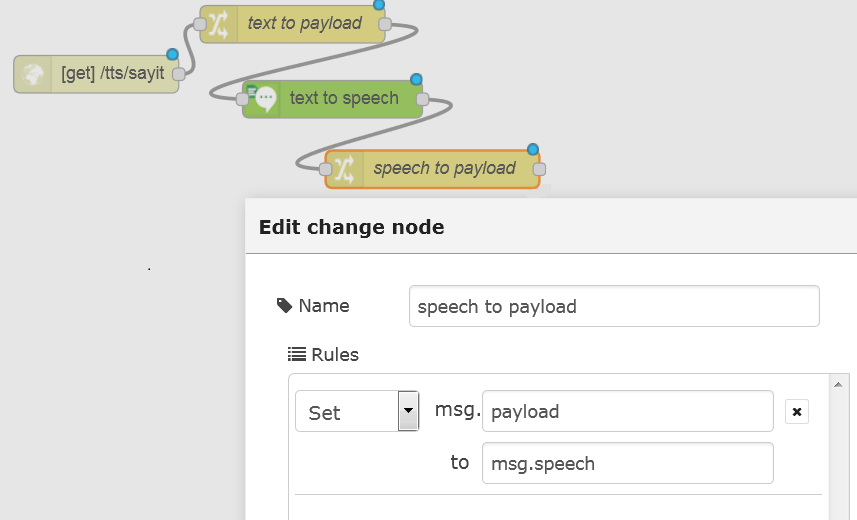
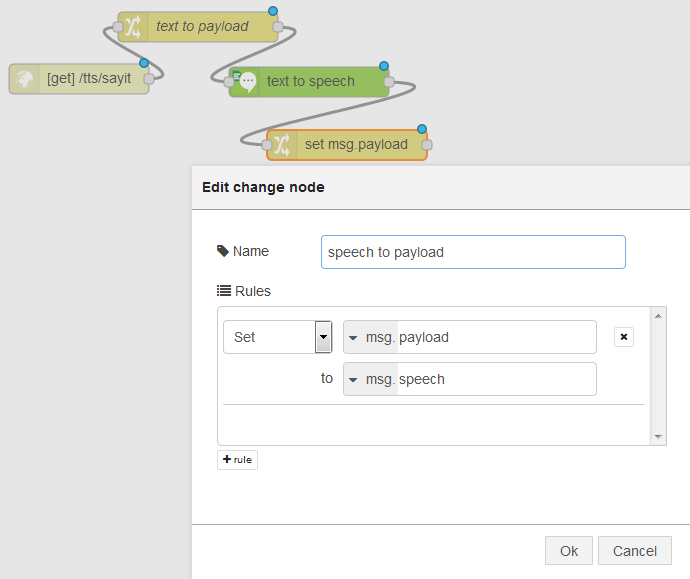
Updated Text to Speech flow to allow for new change node options

diff --git a/basic_examples/text_to_speech/README.md b/basic_examples/text_to_speech/README.md
@@ -16,19 +16,22 @@ The first part of the flow will take text input from a web invocation and return
 2. Add an ![`HTTPInput`](/introduction_to_node_red/images/node_red_httpinput.png) node to collect the incoming speech request. Set the `URL` property of this node to `/tts/sayit` This URL will be exposed below our BlueMix main URL.
 ![TTS Lab 1 ScreenShot 1](images/tts_lab_1_set_http_node.png)
 When invoked with query parameters such as `?text_to_say=Hello`, they will be added as properties on the `msg.payload` object. 
-3. Add a ![`change`](/introduction_to_node_red/images/node_red_change.png) node to extract the query parameter `msg.payload.text_to_say` and set it as the `msg.payload`.
+3. Add a ![`change`](/introduction_to_node_red/images/node_red_change.png) node to 
+extract the query parameter `msg.payload.text_to_say` and set it as the `msg.payload`.
 ![TTS Lab 1 ScreenShot 2](images/tts_lab_2_edit_change_node.png)
 We do this because the TTS node uses the text in the `msg.payload` as input.
 4. Now add a ![`Watson TTS`](images/node_red_watson_tts.png) node. This node will generate the binary `wav` stream content to the `msg.speech` property.
 ![TTS Lab 1 ScreenShot 3](images/tts_lab_3_edit_tts.png)
 
-The properties of the TTS node will let you select the Language and Voice to use.
+5. The properties of the TTS node will let you select the Language and Voice to use.
 
-5. Add another ![`change`](/introduction_to_node_red/images/node_red_change.png) node to extract the `msg.speech` and place it in `msg.payload`. We will also set the `HTTP response headers` by setting the `msg.headers` to the literal string value `[{ 'Content-Type': 'audio/wav'}]`. This is required in order to let browsers know that this is an audio file and not HTML.
-
+6. Add another ![`change`](/introduction_to_node_red/images/node_red_change.png) node to extract the `msg.speech` and place it in `msg.payload`. 
 ![TTS Lab 1 ScreenShot 4](images/tts_lab_4_edit_change.png)
 
-6. Add a ![`Function`](/introduction_to_node_red/images/node_red_function.png) node with the following code:  
+7. We will set the `HTTP response headers` by setting the `msg.headers` to the literal string 
+value `[{ 'Content-Type': 'audio/wav'}]`. This is required in order to let browsers know that this 
+is an audio file and not HTML. Add a ![`Function`](/introduction_to_node_red/images/node_red_function.png) node 
+with the following code:  
 ```javascript
 msg.headers={ 'Content-Type': 'audio/wav'};
 return msg;
@@ -36,7 +39,8 @@ return msg;
 ![EditSetHeadFunc](images/tts_lab_5_edit_set_header_func.png)  
 This is required in order to properly set the HTTP headers so that the response can be identified as audio in Wave format by the receiving browser.
 
-7. Finally, add a  ![`HTTP Response`](/introduction_to_node_red/images/node_red_httpresponse.png) node. This node will simply return what's in the payload to the HTTP response.
+8. Finally, add a  ![`HTTP Response`](/introduction_to_node_red/images/node_red_httpresponse.png) node. This 
+node will simply return what's in the payload to the HTTP response.
 The completed flow should look like:
 ![TTS Lab 1 ScreenShot 6](images/tts_lab_6_completed_simple_flow.png)
 
@@ -47,7 +51,7 @@ _Now try the flow:_
 * Open a new tab or window in your browser, and direct it to `/http://xxxx.mybluemix.net/tts/sayit?text_to_say=Hello`
 * This should prompt you to save a file.
 Depending on how your browser is configured, it may save it automatically or prompt for a name and location. In any case, store or rename it with the `.wav` extension on your local file system. 
-* Then locate that file from windows explorer and open it with Windows Media Player, turn your you should
+* Then locate that file from windows explorer and open it with Windows Media Player.
 
 ### TTS Flow - enhancements: Input Parameter Checking
 This flow has a caveat, which is that the flow will fail when the `text_to_say` query parameter is not set.

diff --git a/basic_examples/alchemy_api_feature_extraction/README.md b/basic_examples/alchemy_api_feature_extraction/README.md
@@ -94,7 +94,8 @@ Drag a HTTP request node to the palette
 
 ![ScreenShot](images/fe_http_req.png)
 
-Connect an Inject node to the HTTP request node, set the Inject node to Blank and join it the the HTTP request node.  Join the HTTP request node to the AlchemyAPI Feature Extract node
+Connect an Inject node to the HTTP request node, keep the Inject node set to timestamp and join it the the 
+HTTP request node.  Join the HTTP request node to the AlchemyAPI Feature Extract node
 
 ![ScreenShot](images/fe_http_join.png)
 
